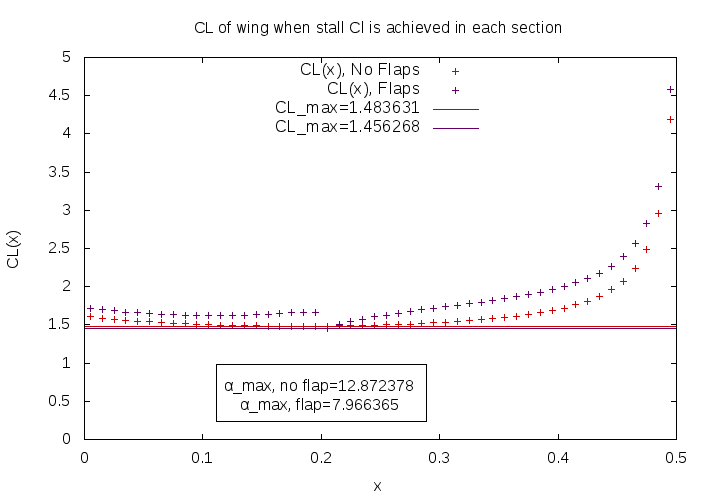
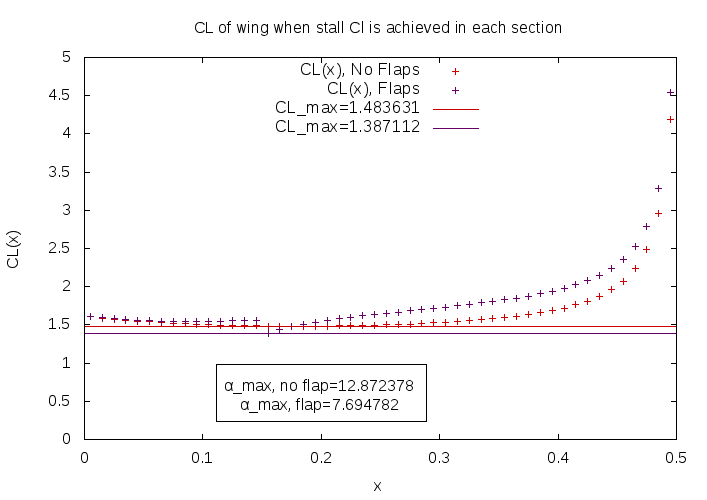
test

Changed region(s): [[0.1245, 0.63, 0.5601, 0.66], [0.4979, 0.78, 0.5601, 0.84], [0.4979, 0.24, 0.5912, 0.27]]

diff --git a/plots/5/python.py b/plots/5/python.py
@@ -95,13 +95,14 @@ f=open("noflap1.txt","w")
 f.write(val)
 f.close()
 
-params=['../../hvm','-d','-p','1','8','0.5','9.5','-2','-2','5','0','0.6','0.0','0.4','10',str(div),'1',str(curr)]
+
 out=0
 curr=0
 prev=0
 delta=1
 dir=1
 target=0.0
+params=['../../hvm','-d','-p','1','8','0.5','9.5','-2','-2','5','0','0.8','0.0','0.3','10',str(div),'1',str(curr)]
 
 for item in val.split("\n"):
 	if "CL:" in item:
